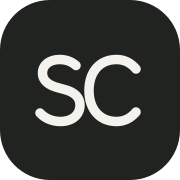
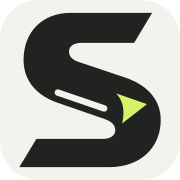
feat: craft Sharcode ribbon identity and reveal Revizer film cover

diff --git a/components/portfolio/ProjectFilm.tsx b/components/portfolio/ProjectFilm.tsx
@@ -1,17 +1,25 @@
 "use client";
 
 import { useEffect, useRef, useState } from "react";
+import Image from "next/image";
 import { Pause, Play } from "lucide-react";
+
+const filmPoster = "/videos/revizer/product-film-poster.webp";
 
 export default function ProjectFilm() {
   const film = useRef<HTMLVideoElement>(null);
   const userPaused = useRef(false);
   const userStarted = useRef(false);
   const [playing, setPlaying] = useState(false);
+  const [hydrated, setHydrated] = useState(false);
+  const [cover, setCover] = useState("/projects/revizer-film-cover.webp");
 
   useEffect(() => {
     const video = film.current;
     if (!video) return;
+    setHydrated(true);
+    // Playback is driven by visibility rather than the browser's autoplay flag.
+    video.autoplay = false;
     const preference = window.matchMedia("(prefers-reduced-motion: reduce)");
     let visible = false;
     const syncPlayback = () => {
@@ -30,10 +38,8 @@ export default function ProjectFilm() {
     observer.observe(video);
     const onPreference = () => {
       userStarted.current = false;
-      video.autoplay = !preference.matches;
       syncPlayback();
     };
-    video.autoplay = !preference.matches;
     preference.addEventListener("change", onPreference);
     document.addEventListener("visibilitychange", syncPlayback);
     return () => {
@@ -58,31 +64,53 @@ export default function ProjectFilm() {
   }
 
   return (
-    <button
-      type="button"
+    <div
       className={`project-media project-film ${playing ? "is-playing" : "is-paused"}`}
-      onClick={togglePlayback}
-      aria-label={`${playing ? "Pause" : "Play"} Revizer product film`}
     >
       <video
         ref={film}
         muted
         loop
         playsInline
-        poster="/videos/revizer/product-film-poster.webp"
+        poster={filmPoster}
         preload="metadata"
+        controls={!hydrated}
+        style={{ pointerEvents: hydrated ? "none" : "auto" }}
         onPlay={() => setPlaying(true)}
         onPause={() => setPlaying(false)}
-        aria-hidden="true"
+        aria-hidden={hydrated || undefined}
+        aria-label={hydrated ? undefined : "Revizer product film"}
       >
         <source
           src="/videos/revizer/product-film-landscape.mp4"
           type="video/mp4"
         />
       </video>
-      <span className="film-control" aria-hidden="true">
-        {playing ? <Pause size={17} /> : <Play size={17} />}
+      {hydrated && (
+        <button
+          type="button"
+          className="film-playback-toggle"
+          onClick={togglePlayback}
+          aria-label={`${playing ? "Pause" : "Play"} Revizer product film`}
+        >
+          <span className="film-control" aria-hidden="true">
+            {playing ? <Pause size={17} /> : <Play size={17} />}
+          </span>
+        </button>
+      )}
+      <span className="project-curtain project-film-cover" aria-hidden="true">
+        <Image
+          src={cover}
+          alt=""
+          fill
+          quality={90}
+          sizes="100vw"
+          onError={() => {
+            if (cover !== filmPoster) setCover(filmPoster);
+          }}
+        />
+        <span className="film-cover-index">01</span>
       </span>
-    </button>
+    </div>
   );
 }

diff --git a/app/globals.css b/app/globals.css
@@ -143,10 +143,7 @@ img {
 }
 .sharcode-mark {
   flex-shrink: 0;
-  transition: transform 350ms var(--ease);
-}
-.wordmark:hover .sharcode-mark {
-  transform: rotate(-12deg);
+  transition: transform 250ms var(--ease);
 }
 .wordmark:focus-visible {
   border-radius: 3px;
@@ -189,11 +186,6 @@ img {
   display: flex;
   align-items: center;
   gap: 30px;
-}
-.local-time {
-  font-size: 9px;
-  letter-spacing: 0.09em;
-  font-variant-numeric: tabular-nums;
 }
 .header-contact {
   display: flex;
@@ -470,6 +462,26 @@ img {
   object-fit: contain;
   pointer-events: none;
 }
+.film-playback-toggle {
+  position: absolute;
+  inset: 0;
+  z-index: 1;
+  width: 100%;
+  height: 100%;
+  padding: 0;
+  border: 0;
+  background: transparent;
+}
+.film-playback-toggle:active {
+  scale: 1;
+}
+.project-film:has(.film-playback-toggle:focus-visible) {
+  outline: 2px solid #65743d;
+  outline-offset: 6px;
+}
+.film-playback-toggle:focus-visible {
+  outline: none;
+}
 .film-control {
   position: absolute;
   right: 24px;
@@ -483,10 +495,11 @@ img {
   background: #20231fcc;
   color: white;
   opacity: 0.65;
+  pointer-events: none;
   transition: opacity 200ms;
 }
 .project-film:hover .film-control,
-.project-film:focus-visible .film-control,
+.project-film:focus-within .film-control,
 .project-film.is-paused .film-control {
   opacity: 1;
 }
@@ -518,17 +531,22 @@ img {
   line-height: 0.72;
   letter-spacing: -0.08em;
 }
+.project-film .project-film-cover {
+  z-index: 2;
+  padding: clamp(18px, 3vw, 42px);
+  background: #d98a4e;
+  color: #fff3e4;
+}
+.project-film-cover > img {
+  object-fit: contain;
+}
+.project-film-cover > .film-cover-index {
+  position: relative;
+  z-index: 1;
+  text-shadow: 0 2px 16px #70391030;
+}
 .project-caption {
   position: relative;
-}
-.project-caption-rule {
-  position: absolute;
-  top: -10px;
-  left: 0;
-  width: 100%;
-  height: 1px;
-  background: var(--line);
-  transform-origin: left;
 }
 .project-card-meta {
   margin-top: 22px;
@@ -610,13 +628,13 @@ img {
 .project-card:focus-within .project-curtain {
   transform: translateY(-101%) !important;
 }
-.project-card:focus-within .project-caption-rule {
-  transform: scaleX(1) !important;
-}
 .project-card:focus-within .project-caption > p {
   opacity: 1 !important;
 }
 @media (hover: hover) and (pointer: fine) {
+  .wordmark:hover .sharcode-mark {
+    transform: translateY(-1px) rotate(-5deg);
+  }
   .project-media:hover {
     outline-color: #a4ae8e;
   }
@@ -1402,9 +1420,6 @@ img {
 @media (max-width: 900px) {
   .site-header {
     gap: 16px;
-  }
-  .local-time {
-    display: none;
   }
   .wordmark {
     min-width: 0;

diff --git a/components/portfolio/SharcodeBrand.tsx b/components/portfolio/SharcodeBrand.tsx
@@ -25,20 +25,27 @@ export default function SharcodeBrand({
         className="sharcode-mark"
         width="30"
         height="30"
-        viewBox="0 0 36 36"
+        viewBox="0 0 42 42"
         fill="none"
         aria-hidden="true"
         focusable="false"
       >
-        <rect width="36" height="36" rx="10" fill="#20231f" />
-        <g
-          stroke="#f3f2ed"
-          strokeWidth="1.9"
-          strokeLinecap="round"
-          strokeLinejoin="round"
-        >
-          <path d="M15.2 13.1c-.9-.8-2-1.2-3.3-1.2-2 0-3.4 1.1-3.4 2.7 0 1.6 1.3 2.5 3.3 3l1.1.3c2 .5 3.1 1.6 3.1 3.1 0 2-1.6 3.3-3.9 3.3-1.6 0-3.1-.6-4.1-1.7" />
-          <path d="M27.2 13.8c-1-1.2-2.3-1.9-3.9-1.9-3.4 0-5.5 2.5-5.5 6.2s2.1 6.2 5.5 6.2c1.6 0 2.9-.7 3.9-1.9" />
+        <g transform="translate(1.5 0)">
+          <path
+            d="M34 3H15C8.4 3 4 7.4 4 14c0 4.8 3 8.3 8 10l11 3.8c1.6.6 2.4 1.4 2.4 2.6 0 1.2-1.1 2-2.9 2H7L3 39h21c7.2 0 12-4.5 12-11 0-4.8-3.2-8.2-8.3-9.9L17 14.5c-1.6-.5-2.4-1.3-2.4-2.5 0-1.2 1.1-2 2.9-2h12.3L34 3Z"
+            fill="#20231f"
+          />
+          <path
+            className="sharcode-accent"
+            d="m25.6 21.8 7.2 2.5-5.8 4.5c.7-3.1.2-5.3-1.4-7Z"
+            fill="var(--sharcode-accent, #d6f46a)"
+          />
+          <path
+            d="m12 21.6 10.8 3.7"
+            stroke="var(--paper, #f3f2ed)"
+            strokeWidth="1.5"
+            strokeLinecap="round"
+          />
         </g>
       </svg>
       <span

diff --git a/components/portfolio/Portfolio.tsx b/components/portfolio/Portfolio.tsx
@@ -61,20 +61,6 @@ function Asterisk({ className = "" }: { className?: string }) {
   );
 }
 
-function IndiaTime() {
-  const [time, setTime] = useState("INDIA · IST");
-  useEffect(() => {
-    const update = () =>
-      setTime(
-        `INDIA · ${new Intl.DateTimeFormat("en-GB", { timeZone: "Asia/Kolkata", hour: "2-digit", minute: "2-digit", hour12: false }).format(new Date())}`,
-      );
-    update();
-    const timer = setInterval(update, 60000);
-    return () => clearInterval(timer);
-  }, []);
-  return <span className="local-time">{time}</span>;
-}
-
 function ProjectDialog({
   project,
   onClose,
@@ -221,7 +207,6 @@ export default function Portfolio() {
           </a>
         </nav>
         <div className="header-right">
-          <IndiaTime />
           <a
             href="https://docs.google.com/document/d/1kAhpCs_0WL15mLLamYSsPfBZD_IMOBhNA_u8EWOQg6Y/edit?usp=sharing"
             target="_blank"
@@ -376,7 +361,6 @@ export default function Portfolio() {
                     </button>
                   )}
                   <div className="project-caption">
-                    <span className="project-caption-rule" aria-hidden="true" />
                     <div className="project-card-meta">
                       <span>
                         {item.number} / {item.category}

diff --git a/app/layout.tsx b/app/layout.tsx
@@ -20,7 +20,7 @@ const title = "Sharcode — Musharraf Jamal";
 const description =
   "Engineer. Designer. Builder. Explore Musharraf Jamal's selected web, mobile and AI products — thoughtfully built from the first idea to the final interaction.";
 const socialImage = {
-  url: "/sharcode-social-card.png",
+  url: "/sharcode-social-card-v2.png",
   width: 1200,
   height: 630,
   type: "image/png",
@@ -51,12 +51,16 @@ export const metadata: Metadata = {
   },
   icons: {
     icon: [
-      { url: "/favicon.svg?v=2", type: "image/svg+xml" },
-      { url: "/favicon-32x32.png", type: "image/png", sizes: "32x32" },
-      { url: "/favicon-16x16.png", type: "image/png", sizes: "16x16" },
+      { url: "/favicon.svg?v=3", type: "image/svg+xml" },
+      { url: "/favicon-32x32.png?v=3", type: "image/png", sizes: "32x32" },
+      { url: "/favicon-16x16.png?v=3", type: "image/png", sizes: "16x16" },
     ],
-    shortcut: "/favicon-32x32.png",
-    apple: { url: "/apple-touch-icon.png", type: "image/png", sizes: "180x180" },
+    shortcut: "/favicon-32x32.png?v=3",
+    apple: {
+      url: "/apple-touch-icon.png?v=3",
+      type: "image/png",
+      sizes: "180x180",
+    },
   },
 };
 

diff --git a/components/portfolio/usePortfolioMotion.ts b/components/portfolio/usePortfolioMotion.ts
@@ -446,12 +446,6 @@ export function usePortfolioMotion(root: RefObject<HTMLDivElement>) {
             );
           timeline
             .fromTo(
-              card.querySelector(".project-caption-rule"),
-              { scaleX: 0 },
-              { scaleX: 1, duration: 0.32, ease: "power2.inOut" },
-              0.12,
-            )
-            .fromTo(
               card.querySelector(".project-card-meta > span"),
               { yPercent: 115 },
               { yPercent: 0, duration: 0.24, ease: "power3.out" },

diff --git a/output/imagegen/sharcode-ribbon-social-prompt.md b/output/imagegen/sharcode-ribbon-social-prompt.md
@@ -1,0 +1,7 @@
+# Sharcode ribbon social banner
+
+Edited with the built-in image generation tool. Target: `public/sharcode-social-card.png`. Exact symbol reference: `output/imagegen/sharcode-ribbon-mark-reference.png`. Final asset: `public/sharcode-social-card-v2.png` (1200 × 630). The prior banner is preserved.
+
+Prompt:
+
+Use case: precise-object-edit. Image 1 is the existing Sharcode social sharing banner EDIT TARGET. Image 2 is the exact new Sharcode ribbon S mark SUPPORTING INSERT. Change ONLY the small old rounded-square SC logo at top left of image 1: remove the old SC square logo and place the new exact freestanding dark sculptural ribbon S symbol from image 2 there, with its ivory fold seam and lime return fold. Match its old footprint, about 74 × 74px at x73, y73 on a 1200 × 630 canvas. Do not add a box behind it. Keep the entire rest of image 1 unchanged: preserve the man's exact face, glasses, haircut, identity, pose, clothing, lighting, photograph; preserve the cream paper background and ALL type positions, wording and font sizes exactly. Existing text verbatim remains 'sharcode', 'Musharraf Jamal', 'Engineer. Designer. Builder.', 'sharcode.tech'. Do not redraw, move or recrop the person, words, or lime underline. Output a single 1200 × 630 landscape sharing card with only the new mark replacing the old one.

diff --git a/output/imagegen/revizer-film-cover-prompt.md b/output/imagegen/revizer-film-cover-prompt.md
@@ -1,0 +1,7 @@
+# Revizer landscape film cover
+
+Generated with the built-in image generation tool, using `public/projects/revizer-cover.webp` as the edit reference. Final asset: `public/projects/revizer-film-cover.webp` (1536 × 864). The original still-project cover is preserved.
+
+Prompt:
+
+Use case: compositing / product-mockup. Edit the attached Revizer orange-phone project cover into a premium LANDSCAPE 16:9 project film cover for a portfolio. Keep the same two complete black phones, accurate visible Revizer app UI, orange revision microphone glow, soft orange folded fabric and studio materials. Expand the scene sideways into a wider 16:9 composition, keep both phones fully visible with safe margins at top and bottom, and place the two-phone product group slightly right of center. The cover must look like the same real product photographed in a more expansive horizontal scene, with warm orange sculptural fabric flowing left and right. Keep all existing phone content and brand legible, do not invent more UI. No extra captions, no project numbers, no badges or logos outside the phones. Do not crop the phones; preserve full devices, original warm physical lighting and careful soft shadow. Output a single wide 16:9 landscape image ready for a full-width portfolio cover.

diff --git a/output/imagegen/sharcode-ribbon-mark.md b/output/imagegen/sharcode-ribbon-mark.md
@@ -1,0 +1,9 @@
+# Sharcode ribbon symbol
+
+A native editable SVG identity, drawn directly in paths. The mark combines broad asymmetric S turns with matching diagonal terminal cuts. A narrow ivory seam and a lime return fold suggest a continuous ribbon turning through code. It is a free-standing symbol paired with the lowercase `sharcode` wordmark; it contains no SC lettering or app-square container.
+
+The header component preserves its existing API, classes, 30px footprint, accessible wrapper behavior and responsive wordmark variables. `public/sharcode-symbol.svg` stores the reusable symbol. `public/favicon.svg` adds an ivory contrast plate specifically for browser tabs, and the 16px/32px PNG favicons and 180px Apple touch icon are Sharp exports of those exact native paths.
+
+Small-size inspection: compare the header mark at 30px, favicons at 16px and 32px, and the symbol at 48px. The S silhouette remains primary at small sizes, while the seam and lime fold provide detail at larger sizes.
+
+No raster image-generation prompt was used for this native vector logo. `output/imagegen/sharcode-ribbon-mark-reference.png` is a 512px transparent export of the exact final native symbol for social-banner regeneration.
